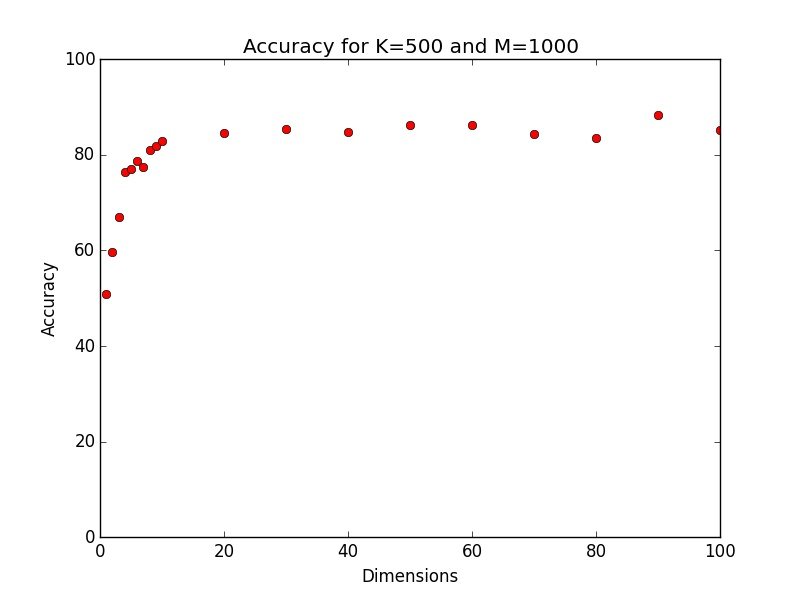
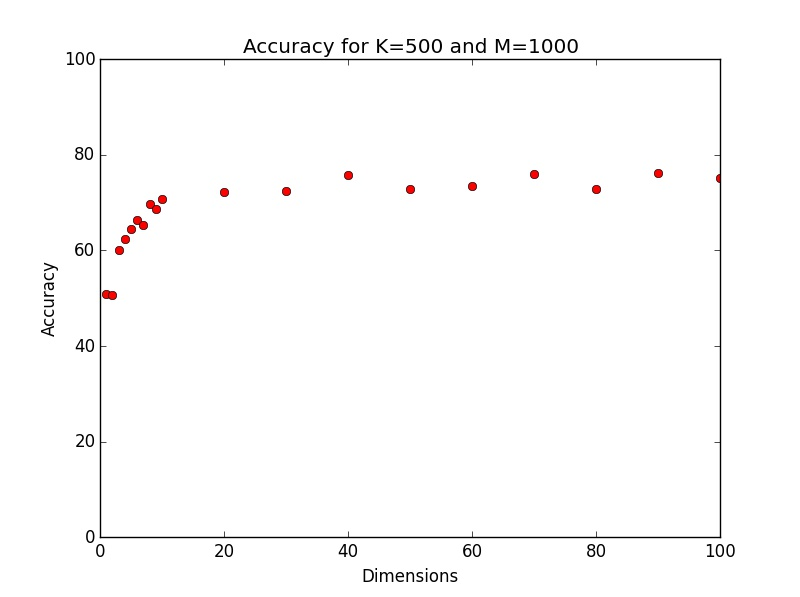
.

diff --git a/experiment12_cityblock.py b/experiment12_cityblock.py
@@ -13,7 +13,7 @@ dimensions = [1,2,3,4,5,6,7,8,9,10,20,30,40,50,60,70,80,90,100]
 pct_accuracy_array = []
 
 for n in dimensions:
-	sample_size = 500
+	sample_size = 2000
 	y_sample_size = 1000
 	s = (sample_size,n)
 	t = (y_sample_size,n)
@@ -78,7 +78,7 @@ for n in dimensions:
 	#print "==================================================================="
 
 	mean = 0.0
-	sigma = 0.05
+	sigma = 0.1
 
 	ksi = np.random.normal(mean,sigma,t)
 

diff --git a/experiment12_maxNorm.py b/experiment12_maxNorm.py
@@ -10,8 +10,8 @@ import sys
 dimensions = [1,2,3,4,5,6,7,8,9,10,20,30,40,50,60,70,80,90,100]
 pct_accuracy_array = []
 for n in dimensions:
-	k = 500
-	m = 1000
+	k = 1000
+	m = 2000
 	s = (k,n)
 	t = (m,n)
 
